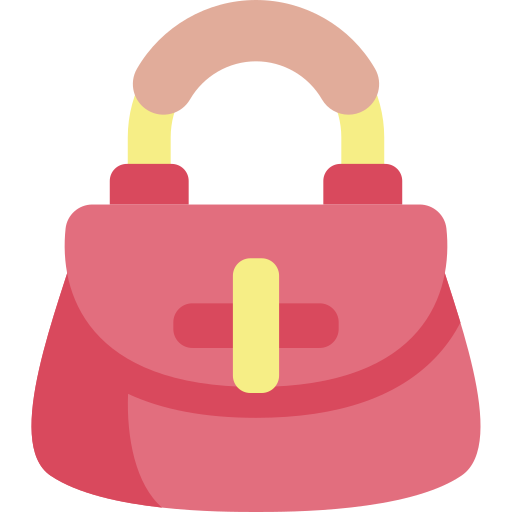
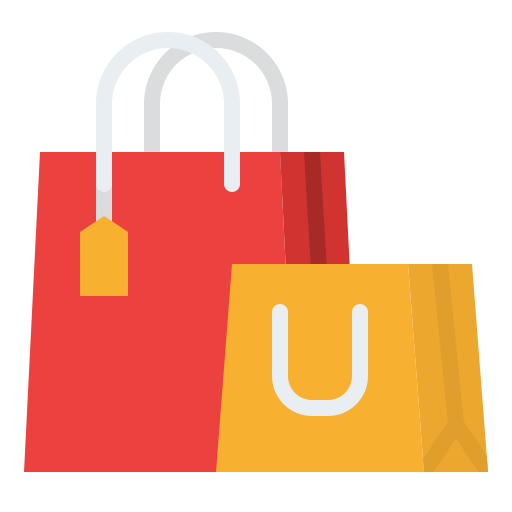
Store ⏳

diff --git a/lib/screens/store_screen.dart b/lib/screens/store_screen.dart
@@ -1,0 +1,82 @@
+import 'package:cloud_firestore/cloud_firestore.dart';
+import 'package:flutter/material.dart';
+import 'package:mash/data_base/data_base.dart';
+import 'package:mash/data_base/product.dart';
+import 'package:mash/main.dart';
+import 'package:mash/widgets/product_widget.dart';
+
+class StoreScreen extends StatefulWidget {
+
+  @override
+  State<StoreScreen> createState() => _StoreScreenState();
+}
+
+class _StoreScreenState extends State<StoreScreen> {
+  var refreshKey = GlobalKey<RefreshIndicatorState>();
+
+  @override
+  Widget build(BuildContext context) {
+    var width = MediaQuery.of(context).size.width,
+        height = MediaQuery.of(context).size.height;
+    return RefreshIndicator(
+      key: refreshKey,
+      onRefresh: refreshList,
+      child: StreamBuilder<QuerySnapshot<Product>>(
+        builder: (buildContext, snapshot) {
+          if (snapshot.hasError) {
+            return Center(
+              child: Text(
+                  'Error loading data try again later'),
+            );
+          } else if (snapshot.connectionState == ConnectionState.waiting) {
+            return Center(
+              child: SizedBox(
+                height: width * .05,
+                width: width * .05,
+                  child: CircularProgressIndicator(color: basicColor)),
+            );
+          }
+          var data = snapshot.data?.docs.map((e) => e.data()).toList();
+          return Scaffold(
+            appBar: PreferredSize(
+                preferredSize: Size.fromHeight(height * .045), // here the desired height
+                child: AppBar(
+                  backgroundColor: basicColor,
+                  title: Text('MashX Store 🔥'),
+                )
+            ),
+            body: GridView.builder(
+              gridDelegate: SliverGridDelegateWithFixedCrossAxisCount(
+                  crossAxisCount: 2),
+              physics: BouncingScrollPhysics(),
+              itemBuilder: (buildContext, index) {
+                return data.isEmpty
+                    ? Center(
+                  child: Text(
+                    'No products yet',
+                    style: TextStyle(
+                        color: basicColor, fontSize: 30),
+                  ),
+                )
+                    : InkWell(
+                    onTap: () {
+                      print(data[index].id);
+                      },
+                    child: ProductWidget(data[index]));
+              },
+              itemCount: data!.length,
+            ),
+          );
+        },
+        stream: DataBase.listenForProductsRealTimeUpdates(),
+      ),
+    );
+  }
+
+  Future<void> refreshList() async {
+    refreshKey.currentState?.show(atTop: false);
+    await Future.delayed(Duration(seconds: 2));
+    setState(() {});
+    return null;
+  }
+}

diff --git a/lib/widgets/home_bottom_sheet.dart b/lib/widgets/home_bottom_sheet.dart
@@ -4,6 +4,8 @@ import 'package:mash/data_base/sign_in_provider.dart';
 import 'package:mash/helpers/next_screen.dart';
 import 'package:mash/screens/profile_screen.dart';
 import 'package:mash/screens/settings.dart';
+import 'package:mash/screens/store_screen.dart';
+import 'package:mash/widgets/job_offer_widget.dart';
 import 'package:provider/provider.dart';
 
 class HomeBottomSheet extends StatelessWidget {
@@ -22,6 +24,7 @@ class HomeBottomSheet extends StatelessWidget {
         top: height * .021
       ),
       child: Column(
+        crossAxisAlignment: CrossAxisAlignment.start,
         children: [
           Row(
             children: [
@@ -43,7 +46,9 @@ class HomeBottomSheet extends StatelessWidget {
               SizedBox(width: width * .065,),
               Image.asset('assets/images/cs.png', width: width * .081,),
               SizedBox(width: width * .065,),
-              Image.asset('assets/images/bag.png', width: width * .081,),
+              GestureDetector(
+                onTap: () {nextScreen(context, StoreScreen());},
+                  child: Image.asset('assets/images/bag.png', width: width * .081,)),
               SizedBox(width: width * .061,),
               GestureDetector(
                 onTap: () {nextScreen(context, Settings());},
@@ -55,7 +60,36 @@ class HomeBottomSheet extends StatelessWidget {
                 onTap: () {Navigator.pop(context);},
                   child: Icon(CupertinoIcons.chevron_down, color: Color(0xff96a8f1),))
             ],
-          )
+          ),
+            SizedBox(height: height * .045,),
+            Text('    Wählen Sie Lhre Stadt'),
+          SizedBox(height: height * .01,),
+          Container(
+            padding: EdgeInsets.symmetric(horizontal: width * .05, vertical: height * .01),
+            width: double.infinity,
+            decoration: BoxDecoration(
+              border: Border.all(color: Colors.grey),
+              borderRadius: BorderRadius.circular(width * .07)
+            ),
+            child: Row(
+              children: [
+                Image.asset('assets/images/location.png', width: width * .065,),
+                Text('Adresse', style: TextStyle(color: Colors.grey),)
+              ],
+            ),
+          ),
+          SizedBox(height: height * .045,),
+          Text('Menü:', style: TextStyle(fontSize: width * .055),),
+          SizedBox(height: height * .019,),
+          Expanded(child: ListView.builder(
+            physics: BouncingScrollPhysics(),
+              itemCount: 21,
+              itemBuilder: (context, index) {
+            return Padding(
+              padding: EdgeInsets.only(bottom: height * .03),
+              child: JobOfferWidget(),
+            );
+          }))
         ],
       ),
     );

diff --git a/lib/widgets/product_widget.dart b/lib/widgets/product_widget.dart
@@ -1,0 +1,50 @@
+import 'package:cached_network_image/cached_network_image.dart';
+import 'package:flutter/cupertino.dart';
+import 'package:flutter/material.dart';
+import 'package:mash/data_base/product.dart';
+
+class ProductWidget extends StatelessWidget {
+  Product product;
+  ProductWidget(this.product);
+
+  @override
+  Widget build(BuildContext context) {
+    var width = MediaQuery.of(context).size.width,
+        height = MediaQuery.of(context).size.height;
+    return Column(
+      children: [
+        ClipRRect(
+          /*borderRadius: BorderRadius.circular(
+                        MediaQuery.of(context).size.height * .1),*/
+          child: product.image == null
+              ? ClipRRect(
+            /*borderRadius: BorderRadius.circular(
+                          MediaQuery.of(context).size.height * .1),*/
+            child: Image.asset(
+              'assets/images/product.webp',
+              width: width * .45,
+              // height: MediaQuery.of(context).size.height * .2,
+              fit: BoxFit.cover,
+            ),
+          )
+              : ClipRRect(
+            /*borderRadius: BorderRadius.circular(
+                          MediaQuery.of(context).size.height * .1),*/
+            child: CachedNetworkImage(
+              width: width * .45,
+              height: width * .45,
+              // height: height * .45,
+              fit: BoxFit.cover,
+              imageUrl: product.image ?? '',
+              placeholder: (context, url) =>
+                  CircularProgressIndicator(),
+              errorWidget: (context, url, error) =>
+              const CircleAvatar(
+                  child: Icon(CupertinoIcons.info_circle_fill)),
+            ),
+          ),
+        ),
+      ],
+    );
+  }
+}

diff --git a/lib/data_base/product.dart b/lib/data_base/product.dart
@@ -1,0 +1,42 @@
+class Product {
+  static const String collectionName = 'products';
+  String? id,
+      description,
+      publisher_name,
+      publisher_image,
+      image;
+  DateTime? date;
+  int? price;
+  double?  rate_percentage;
+  bool? sold;
+
+  Product(
+      {this.id, this.image, this.date, this.description, this.price, this.publisher_image, this.publisher_name, this.rate_percentage, this.sold});
+
+  Product.fromFirestore(Map<String, dynamic> data)
+      : this(
+      id: data['id'],
+      image: data['image'],
+      date: DateTime.fromMillisecondsSinceEpoch(data['date']),
+    description: data['description'],
+    price: data['price'],
+    publisher_image: data['publisher_image'],
+    publisher_name: data['publisher_name'],
+    rate_percentage: data['rate_percentage'],
+    sold: data['sold']
+  );
+
+  Map<String, dynamic> toFirestore() {
+    return {
+      'id': id,
+      'image': image,
+      'date': date?.millisecondsSinceEpoch,
+      'description': description,
+      'price': price,
+      'publisher_image': publisher_image,
+      'publisher_name': publisher_name,
+      'rate_percentage': rate_percentage,
+      'sold': sold
+    };
+  }
+}

diff --git a/lib/screens/home_screen.dart b/lib/screens/home_screen.dart
@@ -1,10 +1,8 @@
 import 'package:flutter/cupertino.dart';
 import 'package:flutter/material.dart';
 import 'package:mash/data_base/sign_in_provider.dart';
-import 'package:mash/helpers/next_screen.dart';
 import 'package:mash/main.dart';
 import 'package:mash/widgets/home_bottom_sheet.dart';
-import 'package:mash/screens/auth/login_screen.dart';
 import 'package:mash/widgets/job_card.dart';
 import 'package:mash/widgets/job_offer_widget.dart';
 import 'package:provider/provider.dart';
@@ -143,7 +141,7 @@ class _HomeScreenState extends State<HomeScreen> {
                 physics: BouncingScrollPhysics(),
                 itemCount: 21,
                 itemBuilder: (context, index) {
-              return JobCard(sp.imageUrl ?? '');
+              return JobCard(sp.imageUrl ?? 'https://cdn-icons-png.flaticon.com/512/149/149071.png');
             }))
           ],
         ),

diff --git a/lib/data_base/data_base.dart b/lib/data_base/data_base.dart
@@ -1,0 +1,23 @@
+import 'package:cloud_firestore/cloud_firestore.dart';
+import 'package:mash/data_base/product.dart';
+
+class DataBase {
+
+  static CollectionReference<Product> getProductsCollection() {
+    return FirebaseFirestore.instance
+        .collection(Product.collectionName)
+        .withConverter<Product>(fromFirestore: (snapshot, options) {
+      return Product.fromFirestore(snapshot.data()!);
+    }, toFirestore: (p, options) {
+      return p.toFirestore();
+    });
+  }
+
+  static Stream<QuerySnapshot<Product>>
+  listenForProductsRealTimeUpdates() {
+    // Listen for realtime update
+    return getProductsCollection()
+        .orderBy("date", descending: true)
+        .snapshots();
+  }
+}

diff --git a/lib/widgets/job_offer_widget.dart b/lib/widgets/job_offer_widget.dart
@@ -1,7 +1,6 @@
 import 'package:flutter/material.dart';
 
 class JobOfferWidget extends StatelessWidget {
-  const JobOfferWidget({super.key});
 
   @override
   Widget build(BuildContext context) {
@@ -24,7 +23,8 @@ class JobOfferWidget extends StatelessWidget {
             crossAxisAlignment: CrossAxisAlignment.start,
             children: [
               Text('Company name'),
-              Text('Job title ...'),
+              SizedBox(height: height * .01,),
+              Text('Job title ...', style: TextStyle(color: Colors.grey),),
             ],
           )
         ],
